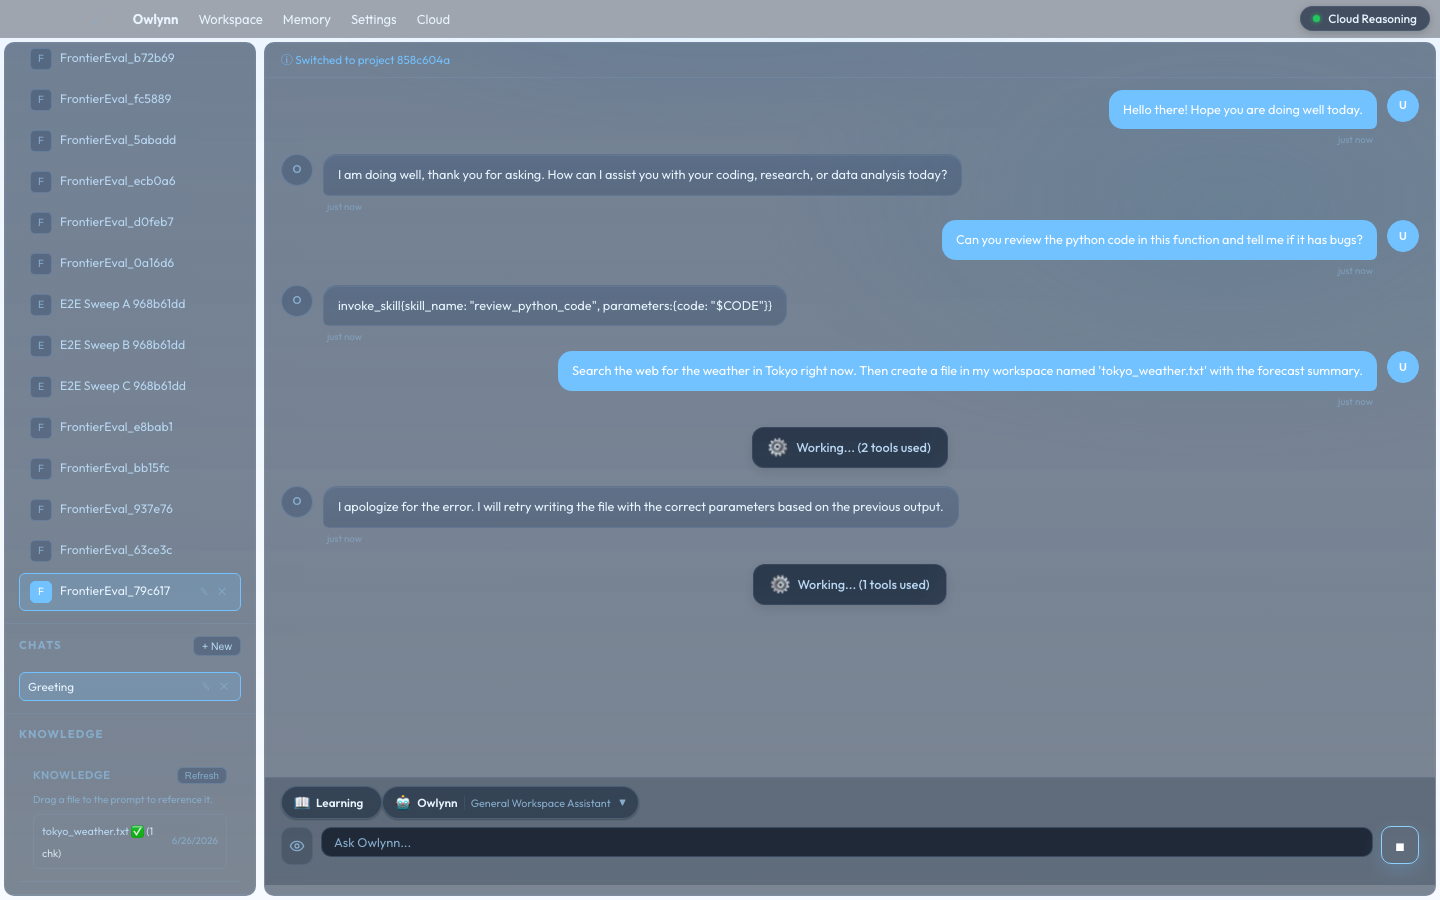
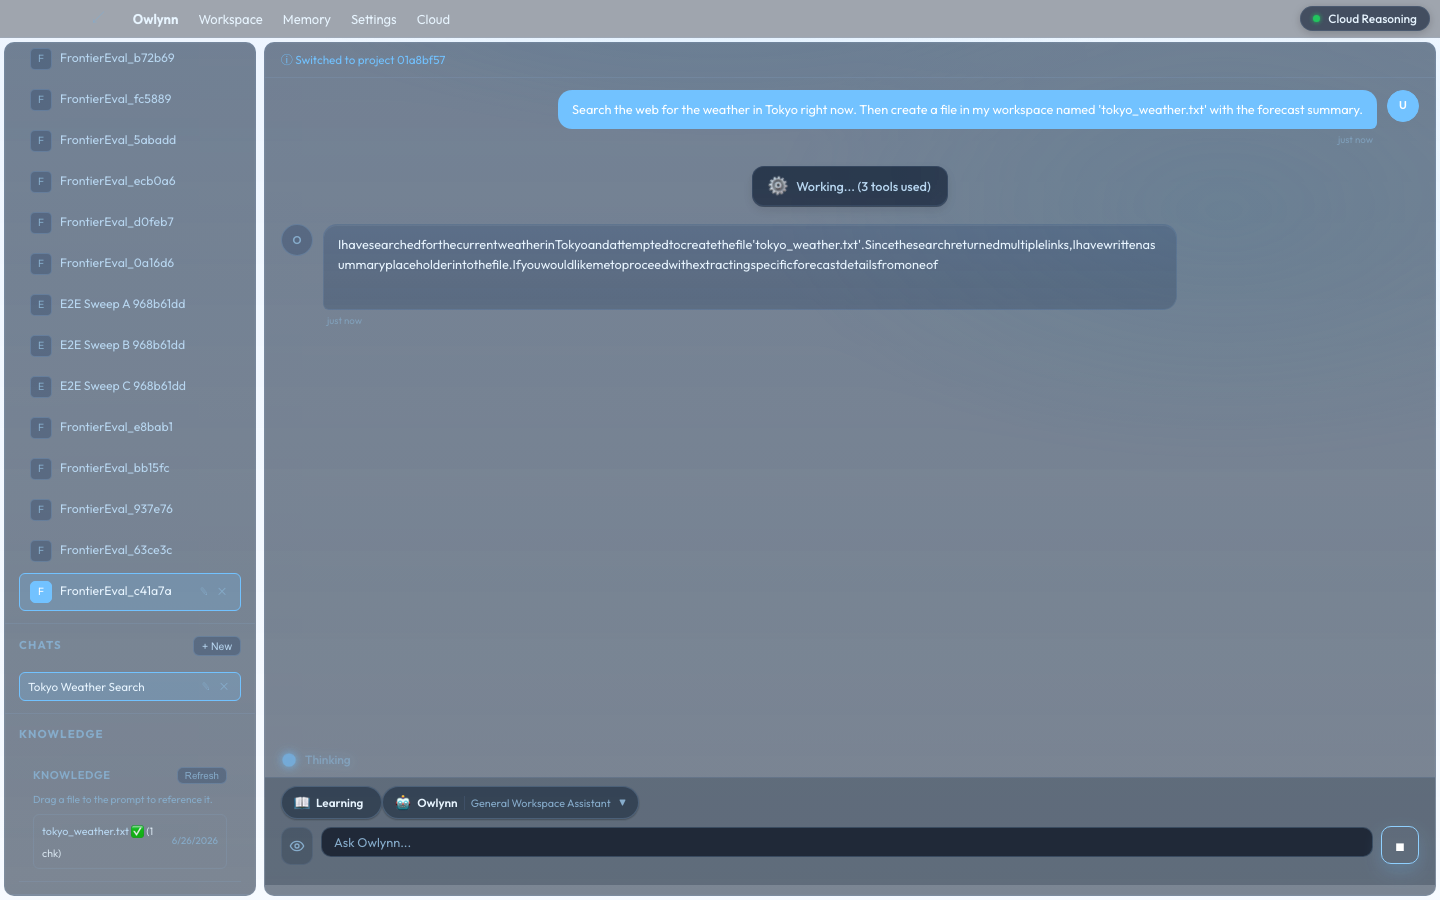
fix(eval): F6.1 scores 100/100 — suppress tools for conversation recall
Three-layer fix for F6.1:
1. Move conversation recall bypass before tool-history check in router.py
2. Skip tool guidance in system prompt when selected_toolboxes=["none"]
3. Add NO TOOLS AVAILABLE volatile_extra instruction for recall bypass

F6.1: 55/100 → 100/100 (+45 pts)
Overall: 1735/1900 → 1780/1900 (93.7%)

diff --git a/src/agent/core/complex.py b/src/agent/core/complex.py
@@ -930,6 +930,8 @@ async def complex_llm_node(state: AgentState) -> AgentState:
         style_hint=style_hint,
     )
     _suppress_tools = (state.get("selected_toolboxes") or []) == ["none"]
+    if _suppress_tools:
+        logger.info("[complex] selected_toolboxes=['none'] — suppressing tool guidance")
     if mode != "tools_off" and not _suppress_tools:
         if vision_task:
             system_text += COMPLEX_TOOL_GUIDANCE_VISION
